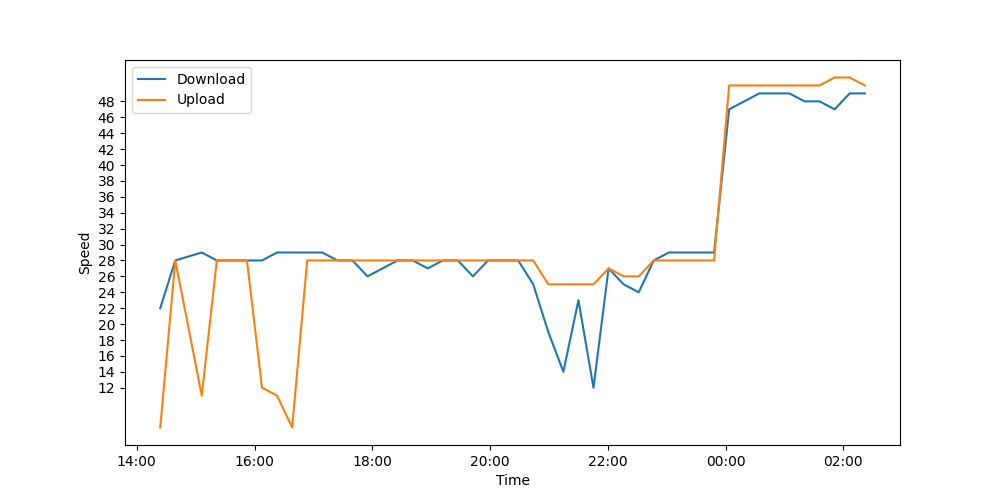
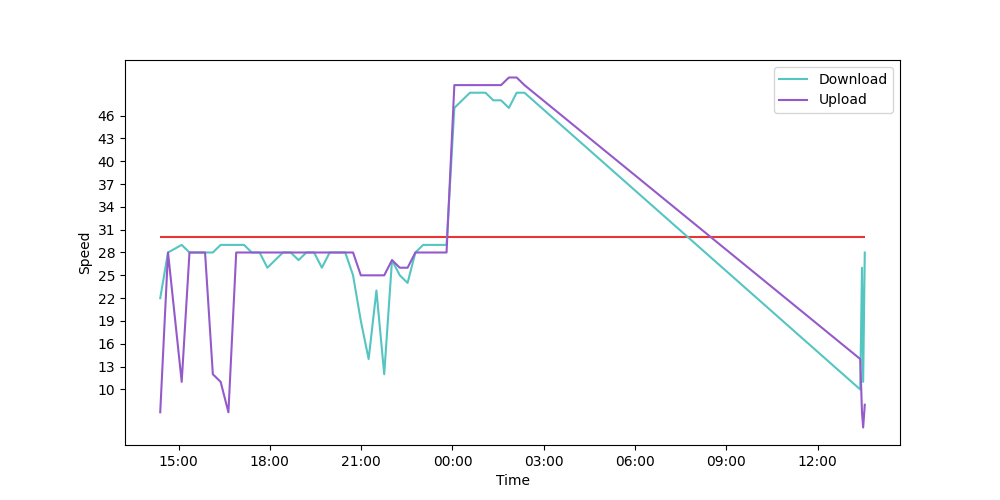
plottin

diff --git a/main.py b/main.py
@@ -3,16 +3,29 @@ from datetime import datetime
 import time
 import os
 import speedtest
+import settings
 
-if not os.path.exists('results/'):
-	os.mkdir('results')
-RESULTS_FILE = f"results/speed{datetime.now().strftime('%b%d%H%M')}.csv"
-TEST_EVERY = 60 * 15
+if not os.path.exists(settings.CSV_DIR):
+	os.mkdir(settings.CSV_DIR)
+RESULTS_FILE = os.path.join(settings.CSV_DIR, f"speed{datetime.now().strftime('%b%d%H%M')}.csv")
+TEST_EVERY = 60 * settings.TEST_EVERY
 
-s = speedtest.Speedtest()
+
+class SpeedTest(speedtest.Speedtest):
+	def test(self):
+		self.get_servers(settings.SERVERS_LIST)
+		self.upload()
+		self.download()
+		results_dict = self.results.dict()
+		download = round(results_dict['download'] / (1024 ** 2), 2)
+		upload = round(results_dict['upload'] / (1024 ** 2), 2)
+		return download, upload, results_dict['ping']
+
+
+s = SpeedTest()
 
 with open(RESULTS_FILE, 'w', newline='') as csv_file:
-	writer = csv.DictWriter(csv_file, fieldnames=['download', 'upload', 'time'])
+	writer = csv.DictWriter(csv_file, fieldnames=['download', 'upload', 'ping', 'time'])
 	writer.writeheader()
 
 prev_test = None
@@ -22,20 +35,14 @@ while True:
 		print(f"Next test in {round((TEST_EVERY - since_last_test) / 60)} minutes")
 		time.sleep(60)
 		continue
-	s.get_servers([3402])
-	s.upload(threads=None)
-	s.download(threads=None)
-	s.results.share()
-	results_dict = s.results.dict()
-	# results_dict = {'download': 10_000_000, 'upload': 5_000_000}
 
-	download, upload = results_dict['download'], results_dict['upload']
-	download = round(download / (1024 ** 2), 2)
-	upload = round(upload / (1024 ** 2), 2)
+	download, upload, ping = s.test()
 
 	with open(RESULTS_FILE, 'a', newline='') as csv_file:
-		writer = csv.DictWriter(csv_file, fieldnames=['download', 'upload', 'time'])
-		writer.writerow({'download': download, 'upload': upload, 'time': datetime.now()})
-
+		writer = csv.DictWriter(csv_file, fieldnames=['download', 'upload', 'ping', 'time'])
+		writer.writerow({'download': download,
+						 'upload': upload,
+						 'ping': ping,
+						 'time': datetime.now()})
 	prev_test = time.time()
-	print(f"Download: {download} | Upload: {upload}")
+	print(f"Download: {download} | Upload: {upload} | Ping: {ping}")

diff --git a/plot.py b/plot.py
@@ -5,7 +5,15 @@ import csv
 import os
 import matplotlib.dates as mdates
 
+import settings
+
+if not os.path.exists(settings.GRAPHS_DIR):
+	os.mkdir(settings.GRAPHS_DIR)
+
+fig_filename = os.path.join(settings.GRAPHS_DIR, f"graph{datetime.now().strftime('%b%d%H%M')}.png")
+
 data = []
+
 for file in os.listdir('results'):
 	with open(os.path.join('results', file), 'r') as csv_file:
 		reader = csv.DictReader(csv_file)
@@ -17,16 +25,21 @@ data.sort(key=lambda x: x['time'])
 
 download_speeds = [int(el['download']) for el in data]
 upload_speeds = [int(el['upload']) for el in data]
+
+# average_speed =
 time_axis = [el['time'] for el in data]
 fig = plt.figure(figsize=(10, 5))
 ax = plt.gca()
 myFmt = mdates.DateFormatter('%H:%M')
 ax.xaxis.set_major_formatter(myFmt)
-plt.yticks(list(range(min(download_speeds), max(download_speeds), 2)))
+plt.yticks(list(range(min(download_speeds), max(download_speeds), 3)))
 plt.xlabel('Time')
 plt.ylabel('Speed')
-plt.plot(time_axis, download_speeds)
-plt.plot(time_axis, upload_speeds)
+
+plt.hlines(30, xmin=min(time_axis), xmax=max(time_axis), colors='#eb3434')
+plt.plot(time_axis, download_speeds, '#55c5c1')
+plt.plot(time_axis, upload_speeds, '#955aca')
 plt.legend(['Download', 'Upload'])
 plt.show()
-fig.savefig('graph.png')
+
+fig.savefig(fig_filename)

diff --git a/settings.py b/settings.py
@@ -1,0 +1,9 @@
+import json
+
+with open('config.json') as file:
+	config = json.load(file)
+
+SERVERS_LIST = config["servers"]
+GRAPHS_DIR = config["graphs_dir"]
+CSV_DIR = config["csv_dir"]
+TEST_EVERY = config["test_every"]
